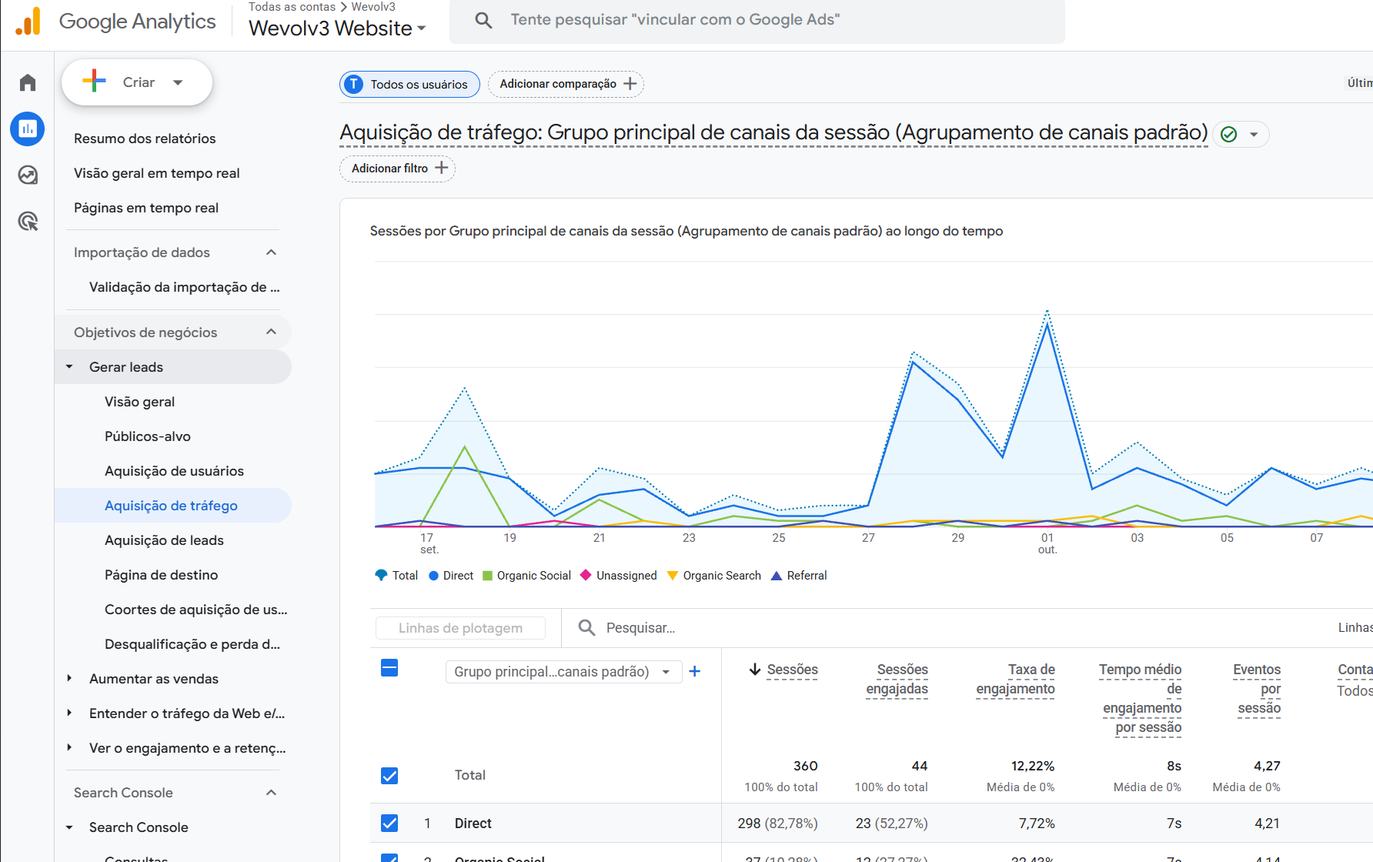
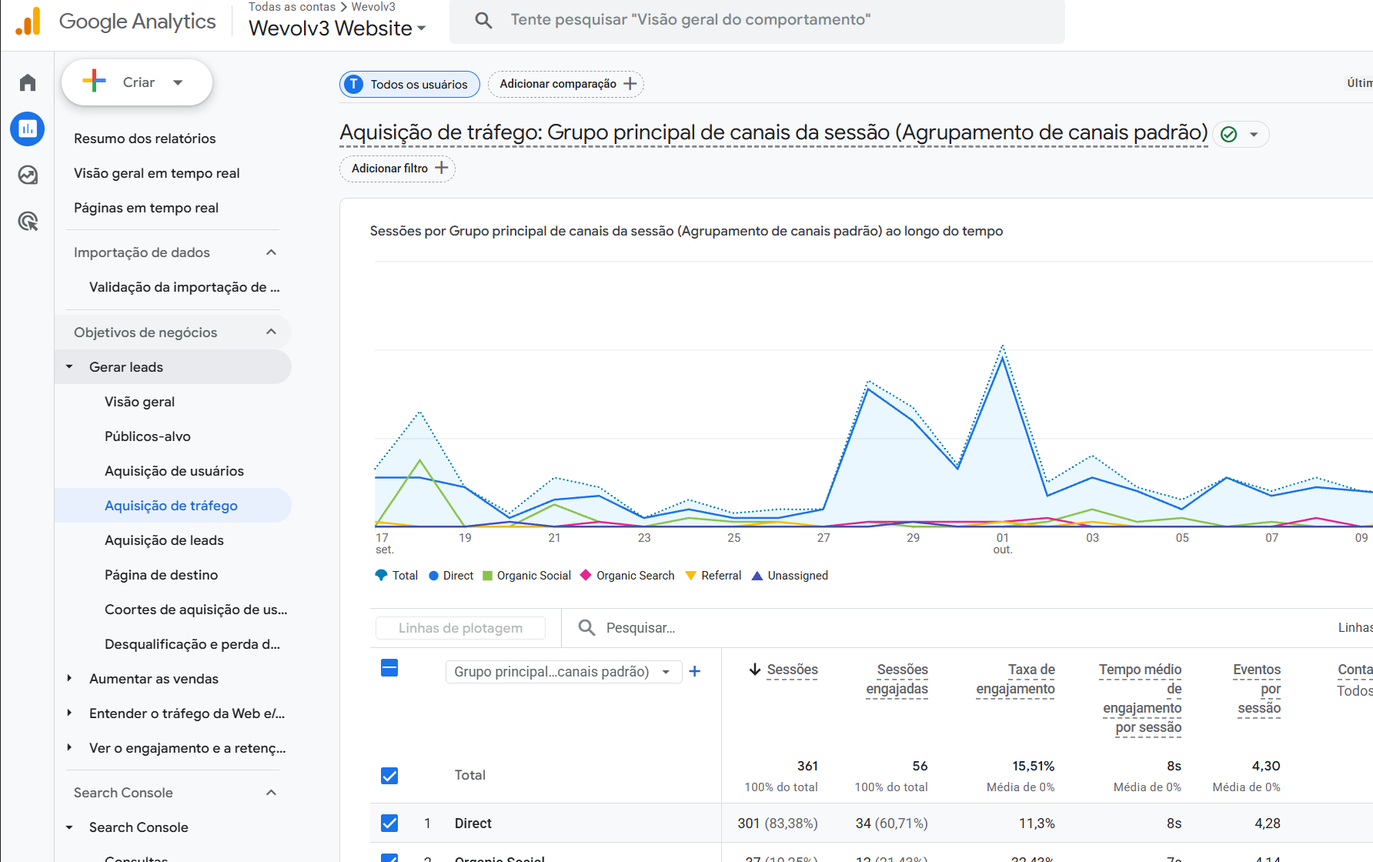
docs(seo): leitura de 15/10, link interno do post de atribuicao para o de wallet tracking

diff --git a/docs/daily-report/raio-x-aquisicao.html b/docs/daily-report/raio-x-aquisicao.html
@@ -175,8 +175,9 @@
 <div class="wrap">
 
   <header>
-    <div class="eyebrow">Wevolv3 · 14 de outubro de 2026 · 2.360 aparições · posição 19,8 · 66 páginas indexadas</div>
+    <div class="eyebrow">Wevolv3 · 15 de outubro de 2026 · 2,2 mil aparições · posição 21,1 · 66 páginas indexadas</div>
     <h1>Raio-X de aquisição</h1>
+    <p class="lead"><b>15/10: a janela do GSC virou (16/09 a 13/10). Os cliques subiram de 5 para 7, mas as aparições caíram pela sétima leitura seguida (2,36 mil para 2,2 mil) e a posição média piorou de 19,8 para 21,1.</b> Dois cliques a mais é ruído; a queda de aparições não é. Ela vem da página de KOL (1.285 para 1.091 aparições, posição 18,2) e de dois posts que passaram a aparecer em buscas mais amplas em posição pior (<code>web-three-marketing-tools</code> 29,2 e <code>what-is-a-tge-in-crypto</code> 29,6), o que puxa a média para baixo. As buscas de decisão ficaram em 18, com 183 aparições, posição 16,7 e zero clique. GA4 sem os dias de robô: <b>178 sessões</b>, Direct 75,3%, Unassigned 0,6%, busca orgânica com 9 sessões e 5 leads, IA com 1 e nenhum: a busca segue pagando, a IA não. <b>Ação do dia, feita e conferida no ar:</b> o post de ferramentas de atribuição (posição 9,0) ganhou um link no texto para o post de wallet tracking (posição 17,9), que não recebia link de nenhum post. Indexação pedida e aceita para ele e para as duas pendências de ontem. Índice 66/19, links 49 (mesmos sites), Bing 0 cliques / 31 aparições / 4 domínios, redes sociais na busca em zero: sem mudança. As 5 telas foram recapturadas hoje.</p>
     <p class="lead"><b>14/10: a janela do GSC virou (14/09 a 11/10) e a busca caiu pela sexta leitura seguida: 5 cliques (eram 6), 2,36 mil aparições (eram 2,41 mil), posição 19,8.</b> As buscas de decisão ficaram em 15, com 181 aparições, posição 16,8 e zero clique. Um sinal contrário apareceu no próprio Search Console: ele avisa que <code>/what-is-a-kol-in-crypto</code> teve <b>+759% de aparições</b> nos últimos dias, depois do título novo de 12/10; a janela de 28 dias ainda não mostra isso (1.285 aparições, posição 17,4). <b>Cuidado com o GA4 de ontem:</b> 13/10 teve 52 sessões e nenhuma engajada (Chrome saindo de Pune, Singapura, Guangzhou, Atlanta, Flint Hill), um robô. Com ele, o Unassigned ia a 6,4%, acima do alerta. Sem ele, como a regra manda, são <b>182 sessões</b>, Direct 75,8%, Unassigned 0,5%, busca orgânica com 9 sessões e 5 leads, IA com 1 e nenhum. <b>Ação do dia, feita e conferida no ar:</b> o post <code>/blog/the-silent-collapse-of-web3-communities</code> tinha 4 perguntas de FAQ escritas em negrito dentro do parágrafo da resposta, e o Google não enxergava nenhuma. Cada uma virou subtítulo com a resposta embaixo (links de fonte mantidos) e o FAQ estruturado foi de 0 para 4 perguntas. A indexação dele e a do post de listagem ficam pendentes: a inspeção do GSC não abre com a aba em segundo plano. Bing (0 cliques, 31 aparições, 4 domínios), links (49) e redes sociais na busca (zero clique): sem mudança. As 5 telas foram recapturadas hoje.</p>
     <p class="lead"><b>13/10: busca parada (a janela do GSC não virou desde ontem às 13h: 6 cliques, 2,41 mil aparições, posição 19,6, 66 páginas no índice). O dado bom do dia veio do PostHog: duas visitas novas chegaram pelo Google.</b> Uma, da Holanda pelo app do Google no iPhone, abriu a home e voltou horas depois para <code>/contact</code>: possível lead, vale olhar o info@. A outra, do Uzbequistão, caiu direto em <code>/blog/galxe-vs-zealy-roi-platforms</code>, um dos cinco posts atacados em 11/10. GA4 sem os dias de robô: 186 sessões, busca orgânica com 10 sessões e 5 leads, IA com 1 e nenhum. <b>Ação do dia, feita e conferida no ar:</b> o post de custo de listagem em exchange (<code>/blog/crypto-exchange-listing-cost-timeline-2026</code>, assunto de serviço da casa e busca de decisão) tinha um FAQ com 4 perguntas que o Google não enxergava, porque estavam escritas como parágrafo comum. Elas viraram subtítulos e o post agora entrega 4 perguntas no FAQ estruturado (eram 0). A indexação fica para a próxima rodada: a inspeção do GSC não abre com a aba em segundo plano. Bing (0 cliques, 31 aparições), links (49 de 13 sites) e redes sociais na busca (zero clique): sem mudança. As 5 telas foram recapturadas hoje.</p>
     <p class="lead"><b>12/10, 13h: a janela do GSC virou (13/09 a 10/10) e a busca caiu pela quinta leitura seguida: 6 cliques (eram 7), 2,41 mil aparições (eram 2,49 mil), posição 19,6.</b> As buscas de decisão ficaram em 14, com 187 aparições (eram 192), posição 16,7 e zero clique. As quatro buscas de KOL seguem perdendo vitrine ("what is a kol in crypto" 235 para 217). <b>Ação do dia, feita e conferida no ar:</b> a busca "what is a kol in crypto" foi aberta (Google em inglês, EUA). Ali a Wevolv3 já é o <b>4º resultado</b>, com a resposta curta da página como trecho, e <b>não há resumo de IA</b>. A posição 16 do GSC é a média de todos os países. O que faltava era o título, que cortava na tela e não tinha o ano, como têm os concorrentes acima (Bybit, LuvKaizen, Godex). A página ganhou título novo ("What Is a KOL in Crypto? Meaning and 2026 Rates"), descrição nova e a pergunta do quadro "As pessoas também perguntam" que ela não respondia ("How do crypto KOLs make money?"), agora com 9 perguntas no FAQ estruturado. Indexação pedida e aceita, junto com a dos dois posts corrigidos de manhã. GA4 igual à manhã (179 sessões; busca orgânica com 10 sessões e 5 leads; IA com 1 e nenhum). PostHog: uma visita nova hoje de Montreal, entrada direta, que passou 2,5 minutos e abriu <code>/contact</code>. Bing, links e redes sociais sem mudança. As 5 telas foram recapturadas às 13h.</p>
@@ -502,7 +503,7 @@
             <th>Métrica</th>
             <th>27/07 (início)</th>
             <th>13/08 (meio)</th>
-            <th>14/10 (hoje)</th>
+            <th>15/10 (hoje)</th>
             <th>Desde o início</th>
           </tr>
         </thead>
@@ -560,7 +561,7 @@
     </div>
 
     <figure>
-      <img src="/_blob/ddd453dcb7d5354b7906d14ea7ae85c0" alt="Search Console, relatório Desempenho em 28 dias, com o placar de 6 cliques, 4,34 mil impressões, CTR 0,1% e posição 17,4">
+      <img src="/_blob/87f58ab0445c6c706b0059a6523adaa9" alt="Search Console, relatório Desempenho em 28 dias, com o placar de 6 cliques, 4,34 mil impressões, CTR 0,1% e posição 17,4">
       <figcaption><b>Onde olhar:</b> os quatro cartões no topo são o placar do período, e hoje
       marcam <b>8</b> cliques, <b>2,92 mil</b> impressões, CTR 0,3% e posição <b>18,9</b> (captura de 07/10; eram 3,12 mil e 18,3 em 06/10). No
       gráfico, a linha roxa (impressões) é a notícia ruim da semana: depois do pico de meados de setembro
@@ -647,7 +648,7 @@
     existe na busca.</p>
 
     <figure>
-      <img src="/_blob/556bdc7038c9247ada2ebac80d577f72" alt="Search Console, tela de indexação de páginas, mostrando 63 páginas indexadas e 18 não indexadas">
+      <img src="/_blob/6aa6fa165dda2774767087556d646494" alt="Search Console, tela de indexação de páginas, mostrando 63 páginas indexadas e 18 não indexadas">
       <figcaption><b>Onde olhar:</b> os dois cartões no topo, <b>18 não indexadas</b> (cinza) e
       <b>63 indexadas</b> (verde), e o gráfico de barras logo abaixo. Cada barra é um dia: a parte
       verde é o que está no índice, a cinza é o que ficou de fora. Repare no degrau do começo de setembro: a parte cinza encolhe de uma vez e fica baixa desde então. Captura de 7 de outubro: <b>63 dentro e 21 fora</b> (eram 18). Os 3 a mais batem com a limpeza de 06/10 (<code>/linktree/</code> em noindex, post da Cellframe em 301) e com posts novos ainda sem rastreio. <b>08/10</b> (recapturada): igual, 63 e 21, relatório atualizado em 03/10. <b>09/10</b> (recapturada): igual, 63 e 21; o relatório segue com data de 03/10 (6 dias sem atualizar).</figcaption>
@@ -678,7 +679,7 @@
     quem já tem reputação.</p>
 
     <figure>
-      <img src="/_blob/8646d62b157d596ac546269c7d1eddfb" alt="Search Console, relatório Links, com 51 links externos e 407 links internos">
+      <img src="/_blob/006769d4018c0707d79b79882afd5094" alt="Search Console, relatório Links, com 51 links externos e 407 links internos">
       <figcaption><b>Onde olhar:</b> o quadro <b>Principais sites com links</b>, dentro da coluna
       <b>Links externos</b> (total de 49 em 06/10). Atenção: esse quadro mostra <b>só os 5 primeiros</b> (goodfirms 27,
       dev.to 5, wekolnect 5, coinmarketcap 2, edverise 2), que somam 41 dos 49 links. A lista inteira, com os 13
@@ -791,7 +792,7 @@
     </ul>
 
     <figure>
-      <img src="/_blob/575828037b046aea82e197beb38f1ae4" alt="Google Analytics, relatório Aquisição de tráfego, sessões por canal nos últimos 28 dias">
+      <img src="/_blob/6b3530c39e717d2380f65287c2e31da8" alt="Google Analytics, relatório Aquisição de tráfego, sessões por canal nos últimos 28 dias">
       <figcaption><b>Onde olhar:</b> o gráfico mostra cada canal como uma linha ao longo dos 28
       dias, e a tabela embaixo dá o placar: a tela mostra o número bruto, <b>254</b> sessões (02/09 a 29/09), com Direct em 186 (73,2%) e Unassigned em 13, porque inclui os dois dias de robô (28 e 29/09). Sem esses dias, pela API, são <b>189</b> sessões, Direct 137 (72,5%) e Unassigned 2, que é o número que vale. As colunas <b>Sessões engajadas</b> e <b>Taxa de
       engajamento</b> separam visita boa de visita que bate e sai. Captura de 6 de outubro: a tela mostra o bruto, com os dias de robô (28 e 29/09) e o pico de 01/10 vindo de Council Bluffs (data center do Google, 23 sessões Direct sem engajamento). Pela API, sem esses dias e sem cidades de data center, são <b>188</b> sessões (08/09 a 05/10), Direct 134 (71,3%), Organic Search 17 com <b>5 conversões</b>, a primeira vez que a busca orgânica converte. <b>07/10</b> (recapturada): mesma regra pela API, <b>204</b> sessões (09/09 a 06/10), Direct 143 (70,1%), Organic Search 17 (8,3%, 5 conversões), Organic Social 32 (15,7%), Unassigned 5 (2,5%), AI Assistant 3 sem conversão; bruto 328. <b>08/10</b> (recapturada): <b>201</b> sessões (10/09 a 07/10), Direct 144 (71,6%), Organic Social 29 (14,4%), Organic Search 17 (8,5%, 5 conversões), Referral 4, Unassigned 4 (2,0%), AI Assistant 3 sem conversão; bruto 331. <b>09/10</b> (recapturada): <b>186</b> sessões (11/09 a 08/10), Direct 132 (71,0%), Organic Social 30 (16,1%), Organic Search 14 (7,5%, 5 conversões), Referral 4, Unassigned 3 (1,6%), AI Assistant 3 sem conversão; bruto 255.</figcaption>
@@ -875,7 +876,7 @@
     diferença costuma dizer algo.</p>
 
     <figure>
-      <img src="/_blob/9dbaff9acf8449353d0c8e60db435f37" alt="Bing Webmaster Tools, relatório Backlinks, com 3 domínios, 3 páginas e 3 âncoras">
+      <img src="/_blob/90d758aeedf16fc64851f4be615860ff" alt="Bing Webmaster Tools, relatório Backlinks, com 3 domínios, 3 páginas e 3 âncoras">
       <figcaption><b>Onde olhar:</b> os três cartões no topo, domínios / páginas / âncoras, hoje
       em <b>4 / 4 / 3</b> (07/10), e a lista <b>Source domain</b> logo abaixo, com os sites que o Bing
       enxerga apontando para a Wevolv3: cbinsights, findglocal, x.com e, desde a leitura de 07/10, <b>linkedin.com</b> (o dev.to saiu em 19/09). No menu da
@@ -1186,7 +1187,8 @@
     </div>
 
     <div class="callout warn">
-      <div class="eyebrow">A recomendação do dia (14/10) · feita: FAQ do post de comunidades; próxima: pedir as 2 indexações com a aba visível</div>
+      <div class="eyebrow">A recomendação do dia (15/10) · feita: link interno do post de atribuição para o de wallet tracking; próxima: link para o checklist de DeFi</div>
+      <p><b>15/10 (feita):</b> a fila de ação foi para o item 4 (link interno de página forte para página na posição 8 a 20). <code>/blog/web-three-attribution-tool</code> (posição 9,0, 49 aparições) não linkava nenhum outro post; agora a frase "Missing any of these touchpoints" leva a <code>/blog/web3-attribution-wallet-tracking</code> (posição 17,9), que trata justamente de ligar cada ponto de contato a uma carteira. Conferido no HTML ao vivo, FAQ estruturado intacto (3 perguntas). Indexação pedida e aceita para o post de atribuição e para as duas pendências de ontem (comunidades e listagem). Próximo passo: mesmo item da fila para <code>/blog/defi-marketing-agency-checklist</code> (15,3), a partir de um post de DeFi que ainda não o cita; e de olho em <code>/blog/web-three-marketing-tools</code>, que foi de 13,6 para 29,2 em posição média com mais aparições (está aparecendo para buscas mais amplas, não necessariamente caindo).</p>
       <p><b>14/10 (feita):</b> a fila de ação pegou de novo o item 3 (post com defeito): o FAQ de <code>the-silent-collapse-of-web3-communities</code> passou a ser lido (4 perguntas no schema, eram 0). "growth pod vs agency" não precisou ser reaberta: a busca foi aberta em 11/10 (1º orgânico nos EUA e fonte do resumo de IA) e a página está em acompanhamento até 25/10. O outro post da fila, <code>web-three-gtm-framework</code>, já entrega 3 perguntas no schema (falta só o "?"), então saiu da fila. Próximo passo: pedir a indexação dos posts de comunidades e de listagem com a aba do GSC visível, antes de qualquer outra ação. A página 1 sem clique, contada por página, está toda tratada; a próxima ação de crescimento passa a ser o item 4 da fila, link interno de página forte para página na posição 8 a 20 (candidatas: <code>/blog/defi-marketing-agency-checklist</code>, 16,3, e <code>/blog/what-is-a-tge-in-crypto</code>, 19,2).</p>
       <p><b>13/10 (feita):</b> a fila de ação pegou o item 3 (post com defeito). Uma varredura nos 36 posts achou três FAQs sem pergunta reconhecida; o de custo de listagem em exchange foi o primeiro, por ser assunto de serviço e busca de decisão. Ficam na fila os de <code>the-silent-collapse-of-web3-communities</code> e <code>web-three-gtm-framework</code>. Próximo passo: pedir a indexação do post de listagem antes de tudo, e em 14/10 abrir "growth pod vs agency" (14 dias de título novo).</p>
       <p><b>12/10, 13h (feita):</b> a ação recomendada de manhã foi executada. A página de KOL ganhou título com o ano, descrição nova e a pergunta que faltava do "As pessoas também perguntam", e a indexação foi pedida. Ela entra em acompanhamento até 26/10. Próxima ação da fila: em 14/10 "growth pod vs agency" completa 14 dias de título novo. Até lá, cada rodada pega a próxima página da fila 4c (posição até 12 com 30 ou mais aparições). A leitura que fica de hoje: na busca dos EUA o site está mais alto do que a média do GSC mostra. O título é a alavanca de clique onde a página já aparece.</p>
@@ -1372,7 +1374,8 @@
     ["12/10", 2410,  6, 19.6, 66, 19, 179, 5.59, 15.64],
     ["13/10", 2410,  6, 19.6, 66, 19, 186, 5.38, 15.05],
     // Desde 14/10 sai também o dia 13/10 (52 sessões sem engajamento, Chrome de várias cidades), até 10/11.
-    ["14/10", 2360,  5, 19.8, 66, 19, 182, 4.95, 15.38]
+    ["14/10", 2360,  5, 19.8, 66, 19, 182, 4.95, 15.38],
+    ["15/10", 2200,  7, 21.1, 66, 19, 178, 5.06, 15.73]
   ];
 
   var COL = { impr:1, cliq:2, pos:3, idx:4, nidx:5, sess:6, search:7, social:8 };
@@ -1437,7 +1440,8 @@
     ["10/10", 0, 0],
     ["11/10", 4, 2],
     ["12/10", 3, 2],
-    ["13/10", 6, 5]
+    ["13/10", 6, 5],
+    ["14/10", 9, 2]
   ];
 
   function paint(){

diff --git a/docs/daily-report/raio-x-template.html b/docs/daily-report/raio-x-template.html
@@ -175,8 +175,9 @@
 <div class="wrap">
 
   <header>
-    <div class="eyebrow">Wevolv3 · 14 de outubro de 2026 · 2.360 aparições · posição 19,8 · 66 páginas indexadas</div>
+    <div class="eyebrow">Wevolv3 · 15 de outubro de 2026 · 2,2 mil aparições · posição 21,1 · 66 páginas indexadas</div>
     <h1>Raio-X de aquisição</h1>
+    <p class="lead"><b>15/10: a janela do GSC virou (16/09 a 13/10). Os cliques subiram de 5 para 7, mas as aparições caíram pela sétima leitura seguida (2,36 mil para 2,2 mil) e a posição média piorou de 19,8 para 21,1.</b> Dois cliques a mais é ruído; a queda de aparições não é. Ela vem da página de KOL (1.285 para 1.091 aparições, posição 18,2) e de dois posts que passaram a aparecer em buscas mais amplas em posição pior (<code>web-three-marketing-tools</code> 29,2 e <code>what-is-a-tge-in-crypto</code> 29,6), o que puxa a média para baixo. As buscas de decisão ficaram em 18, com 183 aparições, posição 16,7 e zero clique. GA4 sem os dias de robô: <b>178 sessões</b>, Direct 75,3%, Unassigned 0,6%, busca orgânica com 9 sessões e 5 leads, IA com 1 e nenhum: a busca segue pagando, a IA não. <b>Ação do dia, feita e conferida no ar:</b> o post de ferramentas de atribuição (posição 9,0) ganhou um link no texto para o post de wallet tracking (posição 17,9), que não recebia link de nenhum post. Indexação pedida e aceita para ele e para as duas pendências de ontem. Índice 66/19, links 49 (mesmos sites), Bing 0 cliques / 31 aparições / 4 domínios, redes sociais na busca em zero: sem mudança. As 5 telas foram recapturadas hoje.</p>
     <p class="lead"><b>14/10: a janela do GSC virou (14/09 a 11/10) e a busca caiu pela sexta leitura seguida: 5 cliques (eram 6), 2,36 mil aparições (eram 2,41 mil), posição 19,8.</b> As buscas de decisão ficaram em 15, com 181 aparições, posição 16,8 e zero clique. Um sinal contrário apareceu no próprio Search Console: ele avisa que <code>/what-is-a-kol-in-crypto</code> teve <b>+759% de aparições</b> nos últimos dias, depois do título novo de 12/10; a janela de 28 dias ainda não mostra isso (1.285 aparições, posição 17,4). <b>Cuidado com o GA4 de ontem:</b> 13/10 teve 52 sessões e nenhuma engajada (Chrome saindo de Pune, Singapura, Guangzhou, Atlanta, Flint Hill), um robô. Com ele, o Unassigned ia a 6,4%, acima do alerta. Sem ele, como a regra manda, são <b>182 sessões</b>, Direct 75,8%, Unassigned 0,5%, busca orgânica com 9 sessões e 5 leads, IA com 1 e nenhum. <b>Ação do dia, feita e conferida no ar:</b> o post <code>/blog/the-silent-collapse-of-web3-communities</code> tinha 4 perguntas de FAQ escritas em negrito dentro do parágrafo da resposta, e o Google não enxergava nenhuma. Cada uma virou subtítulo com a resposta embaixo (links de fonte mantidos) e o FAQ estruturado foi de 0 para 4 perguntas. A indexação dele e a do post de listagem ficam pendentes: a inspeção do GSC não abre com a aba em segundo plano. Bing (0 cliques, 31 aparições, 4 domínios), links (49) e redes sociais na busca (zero clique): sem mudança. As 5 telas foram recapturadas hoje.</p>
     <p class="lead"><b>13/10: busca parada (a janela do GSC não virou desde ontem às 13h: 6 cliques, 2,41 mil aparições, posição 19,6, 66 páginas no índice). O dado bom do dia veio do PostHog: duas visitas novas chegaram pelo Google.</b> Uma, da Holanda pelo app do Google no iPhone, abriu a home e voltou horas depois para <code>/contact</code>: possível lead, vale olhar o info@. A outra, do Uzbequistão, caiu direto em <code>/blog/galxe-vs-zealy-roi-platforms</code>, um dos cinco posts atacados em 11/10. GA4 sem os dias de robô: 186 sessões, busca orgânica com 10 sessões e 5 leads, IA com 1 e nenhum. <b>Ação do dia, feita e conferida no ar:</b> o post de custo de listagem em exchange (<code>/blog/crypto-exchange-listing-cost-timeline-2026</code>, assunto de serviço da casa e busca de decisão) tinha um FAQ com 4 perguntas que o Google não enxergava, porque estavam escritas como parágrafo comum. Elas viraram subtítulos e o post agora entrega 4 perguntas no FAQ estruturado (eram 0). A indexação fica para a próxima rodada: a inspeção do GSC não abre com a aba em segundo plano. Bing (0 cliques, 31 aparições), links (49 de 13 sites) e redes sociais na busca (zero clique): sem mudança. As 5 telas foram recapturadas hoje.</p>
     <p class="lead"><b>12/10, 13h: a janela do GSC virou (13/09 a 10/10) e a busca caiu pela quinta leitura seguida: 6 cliques (eram 7), 2,41 mil aparições (eram 2,49 mil), posição 19,6.</b> As buscas de decisão ficaram em 14, com 187 aparições (eram 192), posição 16,7 e zero clique. As quatro buscas de KOL seguem perdendo vitrine ("what is a kol in crypto" 235 para 217). <b>Ação do dia, feita e conferida no ar:</b> a busca "what is a kol in crypto" foi aberta (Google em inglês, EUA). Ali a Wevolv3 já é o <b>4º resultado</b>, com a resposta curta da página como trecho, e <b>não há resumo de IA</b>. A posição 16 do GSC é a média de todos os países. O que faltava era o título, que cortava na tela e não tinha o ano, como têm os concorrentes acima (Bybit, LuvKaizen, Godex). A página ganhou título novo ("What Is a KOL in Crypto? Meaning and 2026 Rates"), descrição nova e a pergunta do quadro "As pessoas também perguntam" que ela não respondia ("How do crypto KOLs make money?"), agora com 9 perguntas no FAQ estruturado. Indexação pedida e aceita, junto com a dos dois posts corrigidos de manhã. GA4 igual à manhã (179 sessões; busca orgânica com 10 sessões e 5 leads; IA com 1 e nenhum). PostHog: uma visita nova hoje de Montreal, entrada direta, que passou 2,5 minutos e abriu <code>/contact</code>. Bing, links e redes sociais sem mudança. As 5 telas foram recapturadas às 13h.</p>
@@ -502,7 +503,7 @@
             <th>Métrica</th>
             <th>27/07 (início)</th>
             <th>13/08 (meio)</th>
-            <th>14/10 (hoje)</th>
+            <th>15/10 (hoje)</th>
             <th>Desde o início</th>
           </tr>
         </thead>
@@ -1186,7 +1187,8 @@
     </div>
 
     <div class="callout warn">
-      <div class="eyebrow">A recomendação do dia (14/10) · feita: FAQ do post de comunidades; próxima: pedir as 2 indexações com a aba visível</div>
+      <div class="eyebrow">A recomendação do dia (15/10) · feita: link interno do post de atribuição para o de wallet tracking; próxima: link para o checklist de DeFi</div>
+      <p><b>15/10 (feita):</b> a fila de ação foi para o item 4 (link interno de página forte para página na posição 8 a 20). <code>/blog/web-three-attribution-tool</code> (posição 9,0, 49 aparições) não linkava nenhum outro post; agora a frase "Missing any of these touchpoints" leva a <code>/blog/web3-attribution-wallet-tracking</code> (posição 17,9), que trata justamente de ligar cada ponto de contato a uma carteira. Conferido no HTML ao vivo, FAQ estruturado intacto (3 perguntas). Indexação pedida e aceita para o post de atribuição e para as duas pendências de ontem (comunidades e listagem). Próximo passo: mesmo item da fila para <code>/blog/defi-marketing-agency-checklist</code> (15,3), a partir de um post de DeFi que ainda não o cita; e de olho em <code>/blog/web-three-marketing-tools</code>, que foi de 13,6 para 29,2 em posição média com mais aparições (está aparecendo para buscas mais amplas, não necessariamente caindo).</p>
       <p><b>14/10 (feita):</b> a fila de ação pegou de novo o item 3 (post com defeito): o FAQ de <code>the-silent-collapse-of-web3-communities</code> passou a ser lido (4 perguntas no schema, eram 0). "growth pod vs agency" não precisou ser reaberta: a busca foi aberta em 11/10 (1º orgânico nos EUA e fonte do resumo de IA) e a página está em acompanhamento até 25/10. O outro post da fila, <code>web-three-gtm-framework</code>, já entrega 3 perguntas no schema (falta só o "?"), então saiu da fila. Próximo passo: pedir a indexação dos posts de comunidades e de listagem com a aba do GSC visível, antes de qualquer outra ação. A página 1 sem clique, contada por página, está toda tratada; a próxima ação de crescimento passa a ser o item 4 da fila, link interno de página forte para página na posição 8 a 20 (candidatas: <code>/blog/defi-marketing-agency-checklist</code>, 16,3, e <code>/blog/what-is-a-tge-in-crypto</code>, 19,2).</p>
       <p><b>13/10 (feita):</b> a fila de ação pegou o item 3 (post com defeito). Uma varredura nos 36 posts achou três FAQs sem pergunta reconhecida; o de custo de listagem em exchange foi o primeiro, por ser assunto de serviço e busca de decisão. Ficam na fila os de <code>the-silent-collapse-of-web3-communities</code> e <code>web-three-gtm-framework</code>. Próximo passo: pedir a indexação do post de listagem antes de tudo, e em 14/10 abrir "growth pod vs agency" (14 dias de título novo).</p>
       <p><b>12/10, 13h (feita):</b> a ação recomendada de manhã foi executada. A página de KOL ganhou título com o ano, descrição nova e a pergunta que faltava do "As pessoas também perguntam", e a indexação foi pedida. Ela entra em acompanhamento até 26/10. Próxima ação da fila: em 14/10 "growth pod vs agency" completa 14 dias de título novo. Até lá, cada rodada pega a próxima página da fila 4c (posição até 12 com 30 ou mais aparições). A leitura que fica de hoje: na busca dos EUA o site está mais alto do que a média do GSC mostra. O título é a alavanca de clique onde a página já aparece.</p>
@@ -1372,7 +1374,8 @@
     ["12/10", 2410,  6, 19.6, 66, 19, 179, 5.59, 15.64],
     ["13/10", 2410,  6, 19.6, 66, 19, 186, 5.38, 15.05],
     // Desde 14/10 sai também o dia 13/10 (52 sessões sem engajamento, Chrome de várias cidades), até 10/11.
-    ["14/10", 2360,  5, 19.8, 66, 19, 182, 4.95, 15.38]
+    ["14/10", 2360,  5, 19.8, 66, 19, 182, 4.95, 15.38],
+    ["15/10", 2200,  7, 21.1, 66, 19, 178, 5.06, 15.73]
   ];
 
   var COL = { impr:1, cliq:2, pos:3, idx:4, nidx:5, sess:6, search:7, social:8 };
@@ -1437,7 +1440,8 @@
     ["10/10", 0, 0],
     ["11/10", 4, 2],
     ["12/10", 3, 2],
-    ["13/10", 6, 5]
+    ["13/10", 6, 5],
+    ["14/10", 9, 2]
   ];
 
   function paint(){

diff --git a/docs/SEO_DAILY_LOG.md b/docs/SEO_DAILY_LOG.md
@@ -796,3 +796,4 @@ enviadas em GIF.
 | 2026-10-12 (13h) | 6 | 2.410 | 0,2% | 19,6 | 66 | 19 | 179 | 74,86% | 15,64% | 5,59% | **Segunda rodada: a janela do GSC virou (13/09-10/10) e a busca caiu pela 5a leitura seguida: 6 cliques (eram 7), 2,41 mil (eram 2,49 mil), pos. 19,6.** Extensao: Browser 1 (`2707213e`, aba em segundo plano) para leitura de GSC/Bing/Platform Properties; Browser 2 (`479f0d49`, aba VISIVEL, conta diablov2021 via `authuser=`, Bing deslogado nele) para a Inspecao de URL, que carrega so com aba visivel. **Consultas:** "what is a kol in crypto" 217 (16,4), "what is kol in crypto" 192 (21,5), "kol meaning crypto" 177 (14,9), "what does kol mean in crypto" 100 (17,2), "growth pod vs agency" 73 (5,0), tudo zero clique. **Decisao: 14 consultas / 187 impr. / 0 cliq. / pos. 16,7** (era 192). Nenhum gatilho novo. **Indexacao pendente resolvida:** `web-three-quest-platforms-roi` e `web3-community-playbook-for-builders` pedidas e aceitas. **Acao do dia (4c, item 2), feita e conferida ao vivo:** busca "what is a kol in crypto" aberta (hl=en&gl=us): **sem resumo de IA**, Wevolv3 4o organico nos EUA (abaixo de Bybit, LuvKaizen, Godex) com a resposta curta como trecho; PAA: "Are KOLs and influencers the same?" (ja respondida), "How do crypto KOLs make money?" (faltava), "Who is the most famous person in crypto?", "How do I become a KOL?". `/what-is-a-kol-in-crypto` (estatica, commit a460cdb): title "What Is a KOL in Crypto? Meaning and 2026 Rates | Wevolv3" (57, era 64 e cortava), description nova (151), FAQ "How do crypto KOLs make money?" no HTML e no FAQPage (9 perguntas no ar), dateModified 12/10; numeros so os que a pagina ja tinha (390 criadores, mediana 750). Indexacao pedida e aceita. **GA4 API (14/09-11/10, mesmas exclusoes): 179 sessoes**, Direct 134 (74,9%), Organic Social 28, **Organic Search 10 (5 conv.)**, Referral 5, AI Assistant 1 (0 conv.), Unassigned 1 (0,6%): igual a manha. **Bing (Browser 1, logado):** 0 cliques / 31 impr., backlinks 4/4/3, igual. **Platform Properties:** Instagram 0, TikTok 0, X 0. **PostHog filtrado:** 12/10 visitante novo de Montreal (direto, 19 eventos em 2,5 min, `/` e `/contact`): possivel lead, conferir info@. Nenhum referrer da coluna Medir novo. **ACOES_DE_LINK lido:** sem linha nova desde a manha; linha da pagina de KOL acrescentada. **Recomendacao:** a desta manha foi executada; proxima e "growth pod vs agency" em 14/10, e ate la a fila 4c. **Telas:** as 5 recapturadas as 13h (banner de depuracao cortado), assets novos, os 5 antigos apagados; Raio-X republicado (v62), SERIE 12/10 atualizada para 2410 / 6 / 19,6 / 179. |
 | 2026-10-13 | 6 | 2.410 | 0,2% | 19,6 | 66 | 19 | 186 | 75,81% | 15,05% | 5,38% | **Busca parada (janela do GSC nao virou desde 12/10 13h: segue 13/09-10/10, 6 cliques / 2,41 mil / pos. 19,6, idx 66/19). Organica segue o unico canal com lead (10 sessoes, 5 conv.), IA 1 / 0 conv. Novidade: 2 visitas vindas do Google no PostHog, uma delas abriu /contact.** Extensao: 1 navegador (`479f0d49`, aba em segundo plano; o grupo de abas caiu durante a captura e foi recriado). Telas pela captura de janela (`capture-telas.ps1`, Profile 2; a tela do Bing falhou na chamada padrao, "Parametro invalido" no Bitmap, e saiu numa chamada separada com `-ChromeProfile Default`). As 5 telas + Bing perf + 3 Platform Properties recapturadas e conferidas por Read. **GSC (pela tela):** 6 / 2,41 mil / 0,2% / 19,6; indexacao 66/19 (6 motivos); links 49 externos, internos 465. Consultas e coluna Decisao iguais a 12/10 13h (14 / 187 / 0 / 16,7; janela igual). Data de "Ultima atualizacao" das Paginas nao lida (captura so pega o topo). **Ritmo do blog:** 2 posts em outubro (teto 4). **Orfaos: 0 encontrados / 0 corrigidos** (3 posts em 30 dias, todos linkados). **GA4 API (15/09-12/10), sem 20260928/20260929 e sem cidades de data center: 186 sessoes**: Direct 141 (75,8%, engaj. 8,5%, 13s, 3 conv.), Organic Social 28 (15,1%, 28,6%, 0), **Organic Search 10 (5,4%, 50%, 282s, 5 conv.)**, Referral 5 (0), AI Assistant 1 (0 conv.), Unassigned 1 (0,5%). **Watch Unassigned OK** (0,5%): 14 dias tem 29/09 Chisinau (excluido) e 13/10 Coimbatore, Sao Petersburgo, Tashkent (borda do dia, engaj. 0). Direct 75,8% vs baseline 74,3%: dentro do ruido, hipotese sem confirmacao. **IA:** a busca paga (5 conv. em 10), a IA nao (0 em 1). **Bing (Default, logado):** 0 cliques / 31 impressoes (3 meses), backlinks 4 dominios / 4 paginas / 3 ancoras, igual. **Platform Properties (28d):** Instagram 0, TikTok 0, X 0. **PostHog filtrado:** 12/10 3pv (Prayagraj home, Montreal home + /contact); 13/10: visitante da Holanda pelo app do Google no iPhone (home 02h47 UTC, volta em /contact 07h15; possivel lead, conferir info@) e visitante do Uzbequistao pelo Google em `/blog/galxe-vs-zealy-roi-platforms` (post da 1a leva de 11/10); Dulles (2pv, data center AWS) passou pelo filtro e entra na lista. Nenhum referrer da coluna Medir novo. **ACOES_DE_LINK lido:** sem linha nova desde 12/10; leva de 11/10 (25/10), FAQ de 12/10 e pagina de KOL (26/10), checklist DeFi (23/10) em acompanhamento. **Acao do dia (4c, item 3, post com defeito), feita e conferida ao vivo:** varredura dos 36 posts no Sanity achou 3 FAQs sem pergunta reconhecida; `crypto-exchange-listing-cost-timeline-2026` (servico da casa, busca de decisao) tinha as 4 perguntas como paragrafo comum e o FAQPage saia com 0 perguntas (a edge function exige 2+); os 4 blocos viraram h3 (patch so do `style`, com guarda e ifRevisionID, tx 5XKE2QIUrN2ld3Ut8c4lbL). Ao vivo: FAQPage com 4 perguntas, title intacto. **Indexacao pendente** (inspecao nao carrega com a aba em segundo plano): pedir na proxima rodada antes de tudo. Ficam na fila 4c: `the-silent-collapse-of-web3-communities` e `web-three-gtm-framework` (FAQ sem h3). **Recomendacao:** a acao de hoje foi feita; proxima e "growth pod vs agency" em 14/10 (14 dias de titulo novo, abrir a busca). **Telas:** as 5 recapturadas em 13/10, assets novos, os 5 antigos apagados; Raio-X republicado (v63) com paragrafo de 13/10, recomendacao, SERIE (13/10 = 2410 / 6 / 19,6 / 186) e SERIE_PH (12/10 = 3/2). |
 | 2026-10-14 | 5 | 2.360 | 0,2% | 19,8 | 66 | 19 | 182 | 75,82% | 15,38% | 4,95% | **Busca cai pela 6a leitura seguida: janela do GSC virou (14/09-11/10), 5 cliques (eram 6), 2,36 mil (eram 2,41 mil), pos. 19,8. Organica segue o unico canal com lead (9 sessoes, 5 conv.), IA 1 / 0 conv. Sinal contrario: o GSC avisa +759% de impressoes recentes em /what-is-a-kol-in-crypto (titulo novo de 12/10); a janela de 28d ainda nao mostra (1.285 / pos. 17,4).** Extensao: Browser 2 (`2707213e`, Windows, aba em segundo plano; um Browser 1 macOS `f46f3cf7` tambem pareado, nao usado), conta diablov2021 via `authuser=` (caiu em u/1). Telas pela captura de janela (Profile 2 + Default para Bing e Bing perf, PP em chamadas separadas), as 5 + 3 PP + Bing perf conferidas por Read; banner de depuracao cortado da tela 1, faixa de favoritos cortada da tela 5. **GSC:** 147 consultas; "what is a kol in crypto" 204 (16,3), "what is kol in crypto" 177 (22,7), "kol meaning crypto" 169 (15,0), "what does kol mean in crypto" 92 (17,8), "growth pod vs agency" 69 (4,9), "kol crypto" 56, "metaverse kol" 48, "top web3 analytics and attribution tools for defi growth" 45 (10,3), "marketing analytics platforms for web3 growth teams" 39 (5,5), "token launch marketing" 36 (24,8); tudo zero clique. **Decisao: 15 consultas / 181 impr. / 0 cliq. / pos. 16,8** (era 14 / 187 / 16,7). Gatilho: so "growth pod vs agency" (pos. 4,9, 69 impr.), ja em acompanhamento desde 11/10 (busca aberta, 1o organico EUA, fonte do resumo de IA), nao volta ao parecer. **Paginas (28d):** home 4 cliq / 52 / 8,1; KOL 1 / 1.285 / 17,4; galxe 0 / 144 / 7,9; growth-partner 0 / 96 / 11,2; marketing-tools 0 / 88 / 13,6; listing-cost 0 / 55 / 8,5; tge 0 / 50 / 19,2; attribution-tool 0 / 44 / 8,5; defi-checklist 0 / 32 / 16,3. Todas as paginas ate pos. 12 com 30+ impr. ja tratadas (listing-cost ja tinha seoTitle/desc/short answer). **Indexacao 66/19** (6 motivos); data de "Ultima atualizacao" das Paginas nao lida (aba em segundo plano). **Links:** 49 externos, cartao goodfirms 27 / dev.to 5 / wekolnect 5 / coinmarketcap 2 / edverise 2 (igual), internos 465. **Ritmo do blog:** 2 posts em outubro (teto 4). **Orfaos: 0 encontrados / 0 corrigidos** (3 posts em 30 dias, mesmos de ontem). **GA4 API (16/09-13/10): dia de robo novo, 13/10 = 52 sessoes, 0 engajadas** (Chrome, Pune 8, Singapura 5, sem cidade 9, Guangzhou 6, Atlanta 5, Flint Hill 4, Houston 3, Shenzhen, Dongguan, Coimbatore, Tashkent; Direct 35 + Unassigned 14). Com ele: 234 sessoes, Unassigned 15 (6,4%, acima do alerta). **Excluido 20261013 (sai da janela em 10/11), junto com 20260928/20260929 e as cidades de data center: 182 sessoes**: Direct 138 (75,8%, engaj. 8,7%, 3 conv.), Organic Social 28 (15,4%, 28,6%, 0), **Organic Search 9 (4,9%, 44%, 270s, 5 conv.)**, Referral 5 (0), AI Assistant 1 (0 conv.), Unassigned 1 (0,5%). **Watch Unassigned OK sem o robo** (0,5%); 14 dias: 13/10 (robo, excluido) e 14/10 Singapura (borda). Direct 75,8% vs baseline 74,3%: ruido. **IA:** a busca paga (5 conv. em 9), a IA nao (0 em 1). Bruto GA4 371 (API) / 360 (UI, Direct 298 igual): divergencia de 11 sessoes, dado em processamento. **Bing (Default, logado):** 0 cliques / 31 impressoes (3 meses), backlinks 4 dominios / 4 paginas / 3 ancoras, igual. **Platform Properties (28d):** Instagram 0, TikTok 0, X 0. **PostHog filtrado:** 13/10 6pv / 5 visitantes reais (NL pelo Google home + /contact; UZ pelo Google em galxe-vs-zealy; Coimbatore em best-web3-marketing-firms; Campinas via t.co em best-web3-marketing-firms; BR direto na home) + 6pv da China (Guangzhou e sem cidade, web-three-marketing-tools e /works, ids sequenciais) tratados como a mesma varredura do GA4; 14/10: BR direto 8pv em 6 paginas (id 01a137b5, possivel casa) e EUA 1pv. Nenhum referrer da coluna Medir novo. **ACOES_DE_LINK lido:** sem linha nova desde 13/10; growth pod em acompanhamento ate 25/10 (por isso nao reaberta hoje). **Acao do dia (4c, item 3), feita e conferida ao vivo:** `the-silent-collapse-of-web3-communities` FAQ refeito (4 h3 + respostas, tx nmCtOEMneDjBy7U923bDwG), FAQPage 0 -> 4 perguntas, title intacto. `web-three-gtm-framework` sai da fila (schema ja le 3 perguntas). **Indexacao pendente:** silent-collapse e crypto-exchange-listing-cost-timeline-2026 (inspecao nao carrega com aba em segundo plano); pedir na proxima rodada antes de tudo. **Recomendacao (muda):** fila 4c-1 esgotada; proxima acao e 4c-4, link interno de pagina forte para defi-marketing-agency-checklist (16,3) ou what-is-a-tge-in-crypto (19,2). **Telas:** as 5 recapturadas em 14/10, assets novos, os 5 antigos apagados; Raio-X republicado (v64) com paragrafo de 14/10, recomendacao, SERIE (14/10 = 2360 / 5 / 19,8 / 182) e SERIE_PH (13/10 = 6/5). |
+| 2026-10-15 | 7 | 2.200 | 0,3% | 21,1 | 66 | 19 | 178 | 75,28% | 15,73% | 5,06% | **Janela do GSC virou (16/09-13/10): cliques 5 -> 7 (ruido), mas impressoes caem pela 7a leitura (2,36 -> 2,2 mil) e posicao piora 19,8 -> 21,1. Organica segue o unico canal com lead (9 sessoes, 5 conv.), IA 1 / 0 conv.** Extensao: Browser 2 (`2707213e`, aba em segundo plano, renderer travando: so a 1a leitura de consultas/paginas veio) e Browser 1 (`479f0d49`, aba VISIVEL, conta diablov2021 via `authuser=`) para a Inspecao de URL. Telas pela captura de janela; 1a chamada padrao falhou na tela 2 ("Restaurar paginas?") e na tela 3 (Bitmap invalido): refeitas em chamadas `-SoExtra` separadas; banner de depuracao cortado das telas 1 e 3, favoritos da tela 5. **GSC:** 173 consultas; "what is a kol in crypto" 154 (17,6), "what is kol in crypto" 146 (20,2), "kol meaning crypto" 141 (15,8), "what does kol mean in crypto" 76 (18,1), "growth pod vs agency" 68 (4,6), "kol crypto" 55, "top web3 analytics and attribution tools for defi growth" 48 (10,8), "metaverse kol" 48, "marketing analytics platforms for web3 growth teams" 39 (5,7), "token launch marketing" 33 (25,1); nenhuma consulta com clique visivel (os 7 cliques sao de consultas anonimizadas). **Decisao: 18 consultas / 183 impr. / 0 cliq. / pos. 16,7** (era 15 / 181 / 16,8). Nenhum gatilho novo (growth pod em acompanhamento ate 25/10). **Paginas (28d):** home 5 / 54 / 8,1; KOL 1 / 1.091 / 18,2 (era 1.285; o +759% recente do aviso de 14/10 nao segura a janela); galxe 1 / 129 / 7,7; web-three-marketing-tools 0 / 135 / **29,2** (era 13,6: aparece em buscas mais amplas); growth-partner 0 / 99 / 11,9; listing-cost 0 / 71 / 8,5; tge 0 / 66 / **29,6** (era 19,2); attribution-tool 0 / 49 / 9,0; defi-checklist 0 / 37 / 15,3; web-three-crm 0 / 23 / 19,9; wallet-tracking 0 / 19 / 17,9. **Indexacao 66/19** (6 motivos); data de "Ultima atualizacao" nao lida (texto da aba nao atualizou). **Links:** 49 externos, cartao goodfirms 27 / dev.to 5 / wekolnect 5 / coinmarketcap 2 / edverise 2, internos 465, igual. **Ritmo do blog:** 2 posts em outubro (teto 4). **Orfaos: 0 encontrados / 0 corrigidos** (3 posts em 30 dias, todos linkados). **GA4 API (17/09-14/10), sem 20260928/20260929/20261013 e sem cidades de data center (Dulles incluida): 178 sessoes**: Direct 134 (75,3%, engaj. 8,2%, 3 conv.), Organic Social 28 (15,7%, 28,6%, 0), **Organic Search 9 (5,1%, 44%, 270s, 5 conv.)**, Referral 5 (0), AI Assistant 1 (0), Unassigned 1 (0,6%). O GA4 reprocessou 13/10 (agora 41 Direct com 12 engajadas, sem os 14 Unassigned de ontem); exclusao mantida. **Watch Unassigned OK** (0,6%): 14 dias so 15/10 Ashburn (data center). Direct 75,3% vs baseline 74,3%: ruido. **IA:** a busca paga (5 conv. em 9), a IA nao (0 em 1). UI do GA4 (bruto): 361 sessoes, Direct 301. **Bing (Default, logado):** 0 cliques / 31 impressoes (3 meses), backlinks 4 dominios / 4 paginas / 3 ancoras, igual. **Platform Properties (28d):** Instagram 0, TikTok 0, X 0. **PostHog filtrado:** 14/10 9pv (8 do id 01a137b5, BR direto, possivel casa; 1 em web-three-marketing-tools); 15/10 1pv ate agora (Bien Hoa, discord-community-engagement-strategies). Nenhum referrer da coluna Medir. **ACOES_DE_LINK lido:** sem linha nova desde 14/10; recomendacao de ontem (4c-4) seguida. **Indexacao pendente resolvida:** silent-collapse e listing-cost pedidas e aceitas (aba visivel no Browser 1). **Acao do dia (4c-4, link interno), feita e conferida ao vivo:** `web-three-attribution-tool` (pos. 9,0, nenhum link interno no corpo) ganhou link na frase "Missing any of these touchpoints" para `/blog/web3-attribution-wallet-tracking` (pos. 17,9, so linkado pela calculadora); Sanity com guarda de slug+_rev e ifRevisionID (rev nova ovDN7DDlrYAbDUrlX9Tm1H); HTML ao vivo com o href, title intacto, FAQPage 3 perguntas (= 3 h3). Indexacao do post de atribuicao pedida e aceita. **Recomendacao (muda):** proxima acao 4c-4 para `defi-marketing-agency-checklist` (15,3) a partir de post de DeFi que nao o cita; acompanhar a queda de posicao de web-three-marketing-tools e tge. **Telas:** as 5 recapturadas em 15/10, assets novos, os 5 antigos apagados; Raio-X republicado com paragrafo de 15/10, recomendacao, SERIE (15/10 = 2200 / 7 / 21,1 / 178) e SERIE_PH (14/10 = 9/2). |

diff --git a/docs/ACOES_DE_LINK.md b/docs/ACOES_DE_LINK.md
@@ -45,3 +45,4 @@ que medir. Quem executar uma ação nova acrescenta uma linha aqui no mesmo dia.
 | 12/10 | Pagina de KOL `/what-is-a-kol-in-crypto` (rotina, item 4c-2) | Busca aberta (EUA): sem resumo de IA, Wevolv3 4o organico. Title com ano e sem corte (57), description nova, FAQ "How do crypto KOLs make money?" (pergunta do PAA que faltava) no HTML e no FAQPage. Commit a460cdb, conferido ao vivo (9 perguntas), indexacao pedida e aceita | **em acompanhamento desde 12/10**; reavaliar em 26/10 | GSC por pagina: cliques, CTR, posicao; as 4 consultas de KOL |
 | 13/10 | FAQ sem pergunta reconhecida em crypto-exchange-listing-cost-timeline-2026 (rotina, item 4c-3) | Sanity, guarda + ifRevisionID (tx 5XKE2QIUrN2ld3Ut8c4lbL): as 4 perguntas do FAQ passaram de paragrafo comum para h3; FAQPage ao vivo foi de 0 para 4 perguntas. Indexacao pendente (aba em segundo plano). Fila: the-silent-collapse-of-web3-communities e web-three-gtm-framework com o mesmo defeito | **em acompanhamento desde 13/10**; reavaliar em 27/10 | GSC por pagina: impressoes, posicao, CTR; consultas de custo de listagem |
 | 14/10 | FAQ sem pergunta reconhecida em the-silent-collapse-of-web3-communities (rotina, item 4c-3) | Sanity, guarda + ifRevisionID (tx nmCtOEMneDjBy7U923bDwG): os 4 blocos "pergunta em negrito + \n-resposta" viraram h3 (pergunta) + paragrafo (resposta, links de fonte mantidos); FAQPage ao vivo foi de 0 para 4 perguntas. `web-three-gtm-framework` conferido: h2 FAQ + 3 h3 ja saem no schema (so falta "?"; blocos sem _key, nao mexer), sai da fila. Indexacao pendente deste post e de crypto-exchange-listing-cost-timeline-2026 (aba em segundo plano) | **em acompanhamento desde 14/10**; reavaliar em 28/10 | GSC por pagina: impressoes, posicao, CTR |
+| 15/10 | Link interno web-three-attribution-tool -> web3-attribution-wallet-tracking (rotina, item 4c-4) | Sanity, guarda slug+_rev + ifRevisionID: ancora "Missing any of these touchpoints" no paragrafo sobre os pontos de contato, href /blog/web3-attribution-wallet-tracking. Conferido ao vivo (href, title, FAQPage 3). Indexacao pedida e aceita (e as pendentes de silent-collapse e listing-cost) | **em acompanhamento desde 15/10**; reavaliar em 29/10 | GSC por pagina: posicao e impressoes de web3-attribution-wallet-tracking (17,9 / 19 impr. em 15/10) |
